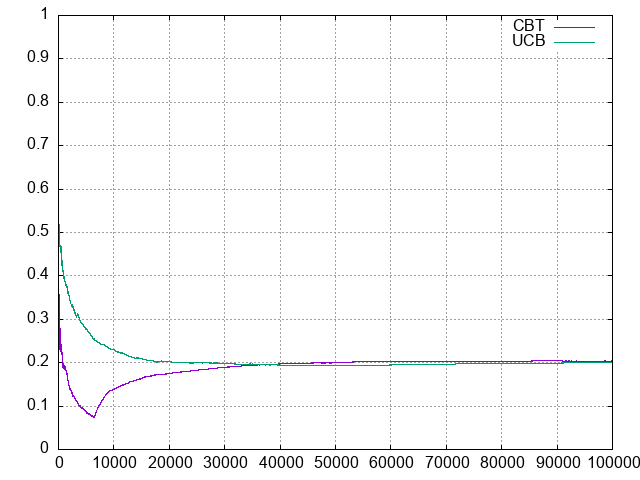
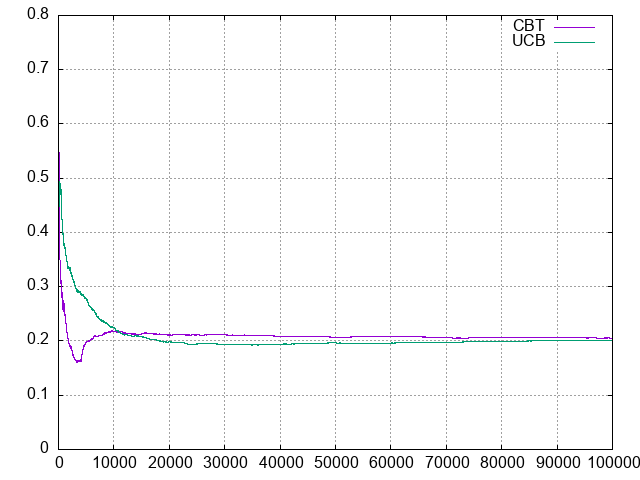
Refine experiments.

diff --git a/cbt/main.py b/cbt/main.py
@@ -10,9 +10,12 @@ def minimal() -> int:
     game = ttt.TicTacToe(print_flag=False)
     cbt2player = CBT2.CBT2Player(0, print_flag=False)
     cbt2player.iterations = 10000
-    cbt2player.set_parameters(10000.0, 1000.0)
-    gm = GameManager(game, cbt2player, ttt.HumanPlayer(1),
-                     print_flag=False, data_flag=True)
+    cbt2player.set_parameters(10.0, 1.0)
+    cbt2player2 = CBT2.CBT2Player(0, print_flag=False)
+    cbt2player2.iterations = 10000
+    cbt2player2.set_parameters(10.0, 1.0)
+    gm = GameManager(game, cbt2player, cbt2player2,
+                     print_flag=True, data_flag=False)
     winner = gm.play()
 
     print(f"The outcome is {gm.points} and winner is player {winner}")

diff --git a/bin/settings.py b/bin/settings.py
@@ -19,8 +19,8 @@ parameters = {
         "learning_rate": 1000.0,
     },
     "ttt_dyn_level": {
-        "exploration": 10.0,
-        "learning_rate": 1.0,
+        "exploration": 1000.0,
+        "learning_rate": 10.0,
     }
 }
 
